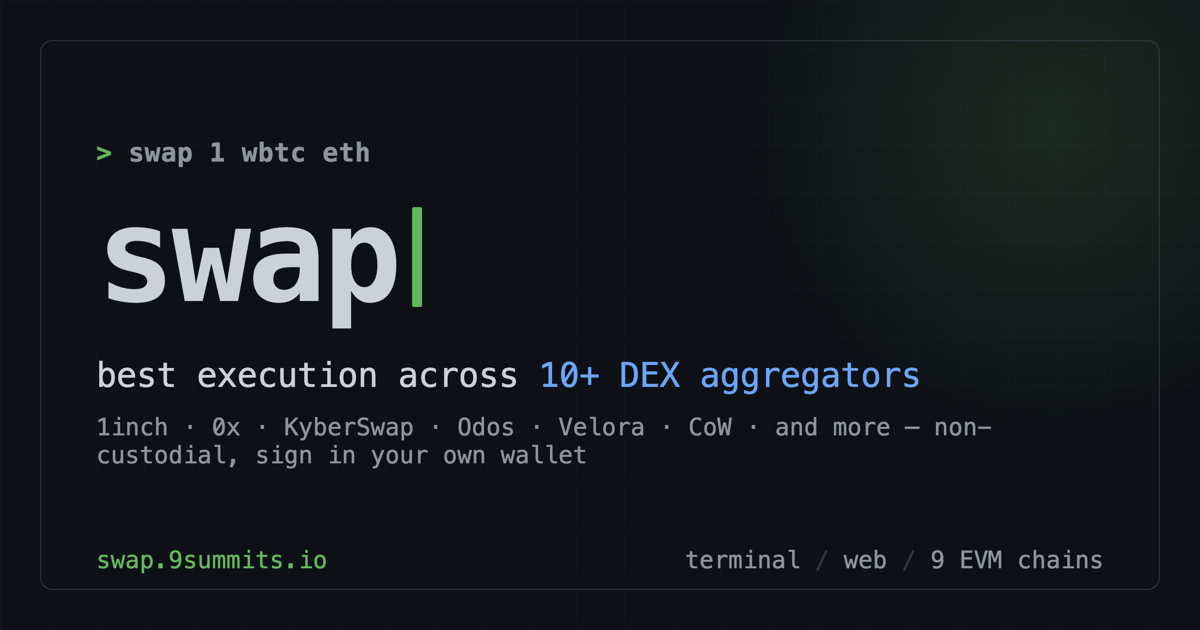
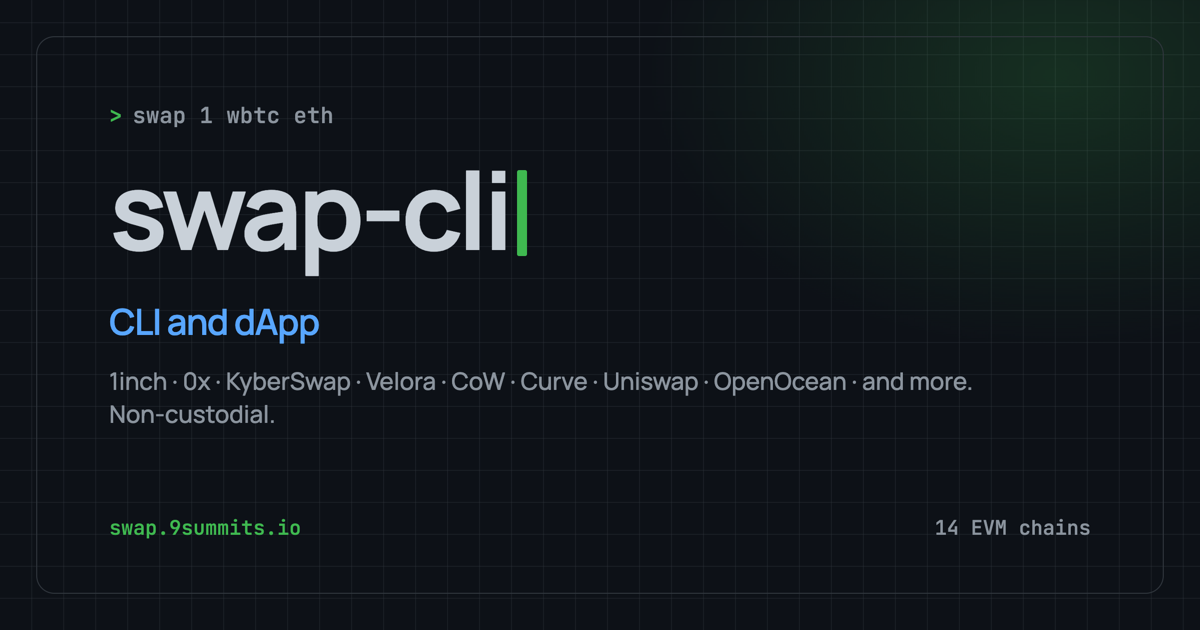
fix(web): refresh Open Graph card for swap-cli
Drop Odos and "sign in your own wallet". Title the product swap-cli,
call it a non-custodial CLI and dApp, and list 14 EVM chains.

diff --git a/scripts/og-card.html b/scripts/og-card.html
@@ -1,0 +1,165 @@
+<!doctype html>
+<html lang="en">
+  <head>
+    <meta charset="utf-8" />
+    <style>
+      @font-face {
+        font-family: "JetBrains Mono";
+        src: url("../web/src/ds/fonts/jetbrainsmono-700.woff2") format("woff2");
+        font-weight: 700;
+        font-style: normal;
+      }
+      @font-face {
+        font-family: "JetBrains Mono";
+        src: url("../web/src/ds/fonts/jetbrainsmono-500.woff2") format("woff2");
+        font-weight: 500;
+        font-style: normal;
+      }
+      @font-face {
+        font-family: "Manrope";
+        src: url("../web/src/ds/fonts/manrope-500.woff2") format("woff2");
+        font-weight: 500;
+        font-style: normal;
+      }
+      @font-face {
+        font-family: "Manrope";
+        src: url("../web/src/ds/fonts/manrope-600.woff2") format("woff2");
+        font-weight: 600;
+        font-style: normal;
+      }
+      @font-face {
+        font-family: "Manrope";
+        src: url("../web/src/ds/fonts/manrope-700.woff2") format("woff2");
+        font-weight: 700;
+        font-style: normal;
+      }
+      html,
+      body {
+        margin: 0;
+        width: 1200px;
+        height: 630px;
+        overflow: hidden;
+        background: #0d1117;
+      }
+      .frame {
+        box-sizing: border-box;
+        width: 1200px;
+        height: 630px;
+        padding: 36px;
+        background:
+          radial-gradient(ellipse 55% 70% at 88% 12%, rgba(63, 185, 80, 0.18) 0%, transparent 62%),
+          repeating-linear-gradient(
+            0deg,
+            transparent 0,
+            transparent 31px,
+            rgba(48, 54, 61, 0.35) 31px,
+            rgba(48, 54, 61, 0.35) 32px
+          ),
+          repeating-linear-gradient(
+            90deg,
+            transparent 0,
+            transparent 31px,
+            rgba(48, 54, 61, 0.35) 31px,
+            rgba(48, 54, 61, 0.35) 32px
+          ),
+          #0d1117;
+      }
+      .card {
+        box-sizing: border-box;
+        width: 100%;
+        height: 100%;
+        border: 1px solid #30363d;
+        border-radius: 18px;
+        padding: 64px 72px 52px;
+        display: flex;
+        flex-direction: column;
+      }
+      .prompt {
+        font-family: "JetBrains Mono", ui-monospace, monospace;
+        font-weight: 500;
+        font-size: 22px;
+        color: #8b949e;
+        letter-spacing: 0.01em;
+      }
+      .prompt .gt {
+        color: #3fb950;
+        margin-right: 10px;
+      }
+      .word {
+        margin: 28px 0 0;
+        display: flex;
+        align-items: center;
+        gap: 8px;
+        font-family: "Manrope", system-ui, sans-serif;
+        font-weight: 700;
+        font-size: 108px;
+        line-height: 0.95;
+        letter-spacing: -0.04em;
+        color: #c9d1d9;
+      }
+      .cursor {
+        width: 10px;
+        height: 86px;
+        background: #3fb950;
+        border-radius: 2px;
+        margin-top: 8px;
+      }
+      .lead {
+        margin: 36px 0 0;
+        font-family: "Manrope", system-ui, sans-serif;
+        font-weight: 600;
+        font-size: 36px;
+        letter-spacing: -0.03em;
+        color: #c9d1d9;
+      }
+      .lead em {
+        font-style: normal;
+        color: #58a6ff;
+      }
+      .venues {
+        margin: 18px 0 0;
+        max-width: 980px;
+        font-family: "Manrope", system-ui, sans-serif;
+        font-weight: 500;
+        font-size: 24px;
+        line-height: 1.4;
+        color: #8b949e;
+      }
+      .nowrap {
+        white-space: nowrap;
+      }
+      .foot {
+        margin-top: auto;
+        display: flex;
+        justify-content: space-between;
+        align-items: baseline;
+        font-family: "JetBrains Mono", ui-monospace, monospace;
+        font-weight: 500;
+        font-size: 20px;
+      }
+      .host {
+        color: #3fb950;
+      }
+      .meta {
+        color: #8b949e;
+      }
+    </style>
+  </head>
+  <body>
+    <div class="frame">
+      <div class="card">
+        <div class="prompt"><span class="gt">&gt;</span>swap 1 wbtc eth</div>
+        <div class="word">swap-cli<span class="cursor"></span></div>
+        <div class="lead"><em>CLI and dApp</em></div>
+        <div class="venues">
+          1inch · 0x · KyberSwap · Velora · CoW · Curve · Uniswap · OpenOcean · and more.
+          <span class="nowrap">Non-custodial.</span>
+        </div>
+        <div class="foot">
+          <span class="host">swap.9summits.io</span>
+          <span class="meta">14 EVM chains</span>
+        </div>
+      </div>
+    </div>
+  </body>
+</html>

diff --git a/web/index.html b/web/index.html
@@ -7,7 +7,7 @@
     <title>swap-cli</title>
     <meta
       name="description"
-      content="Compare quotes from 10+ DEX aggregators — 1inch, 0x, KyberSwap, Velora, CoW — across 9 EVM chains. Non-custodial, sign in your own wallet."
+      content="Non-custodial CLI and dApp. Compare quotes from KyberSwap, Velora, 0x, 1inch, Curve, Uniswap, OpenOcean, CoW and more across 14 EVM chains."
     />
     <link rel="canonical" href="https://swap.9summits.io/" />
     <!-- Agent / LLM discovery (see web/public/llms.txt) -->
@@ -19,11 +19,11 @@
       {
         "@context": "https://schema.org",
         "@type": "SoftwareApplication",
-        "name": "swap",
+        "name": "swap-cli",
         "url": "https://swap.9summits.io/",
         "applicationCategory": "FinanceApplication",
         "operatingSystem": "macOS, Linux, Web",
-        "description": "DEX meta-aggregator: races KyberSwap, Velora, 0x, 1inch, Curve, Uniswap, OpenOcean, CoW, UniswapX and more for the best swap quote on EVM chains, then builds the transaction or EIP-712 order for you to sign in your own wallet.",
+        "description": "Non-custodial CLI and dApp DEX meta-aggregator: races KyberSwap, Velora, 0x, 1inch, Curve, Uniswap, OpenOcean, CoW, UniswapX and more for the best swap quote on 14 EVM chains.",
         "license": "https://www.apache.org/licenses/LICENSE-2.0",
         "isAccessibleForFree": true,
         "offers": { "@type": "Offer", "price": "0", "priceCurrency": "USD" },
@@ -38,24 +38,25 @@
     <!-- Open Graph -->
     <meta property="og:type" content="website" />
     <meta property="og:url" content="https://swap.9summits.io/" />
-    <meta property="og:site_name" content="swap" />
-    <meta property="og:title" content="swap — DEX aggregator of aggregators" />
+    <meta property="og:site_name" content="swap-cli" />
+    <meta property="og:title" content="swap-cli — CLI and dApp DEX meta-aggregator" />
     <meta
       property="og:description"
-      content="Compare quotes from 10+ DEX aggregators — 1inch, 0x, KyberSwap, Velora, CoW — across 9 EVM chains. Non-custodial, sign in your own wallet."
+      content="Non-custodial CLI and dApp. Compare quotes from KyberSwap, Velora, 0x, 1inch, Curve, Uniswap, OpenOcean, CoW and more across 14 EVM chains."
     />
-    <meta property="og:image" content="https://swap.9summits.io/og.png" />
+    <meta property="og:image" content="https://swap.9summits.io/og.png?v=2" />
     <meta property="og:image:width" content="1200" />
     <meta property="og:image:height" content="630" />
+    <meta property="og:image:alt" content="swap-cli: non-custodial CLI and dApp DEX meta-aggregator" />
 
     <!-- Twitter -->
     <meta name="twitter:card" content="summary_large_image" />
-    <meta name="twitter:title" content="swap — DEX aggregator of aggregators" />
+    <meta name="twitter:title" content="swap-cli — CLI and dApp DEX meta-aggregator" />
     <meta
       name="twitter:description"
-      content="Compare quotes from 10+ DEX aggregators — 1inch, 0x, KyberSwap, Velora, CoW — across 9 EVM chains. Non-custodial, sign in your own wallet."
+      content="Non-custodial CLI and dApp. Compare quotes from KyberSwap, Velora, 0x, 1inch, Curve, Uniswap, OpenOcean, CoW and more across 14 EVM chains."
     />
-    <meta name="twitter:image" content="https://swap.9summits.io/og.png" />
+    <meta name="twitter:image" content="https://swap.9summits.io/og.png?v=2" />
 
     <!-- Favicon inlined as a data URI so vite-singlefile keeps it in
          the embedded HTML (public/ files would copy as separate

diff --git a/scripts/render-og.ts b/scripts/render-og.ts
@@ -1,0 +1,19 @@
+// Render scripts/og-card.html → web/public/og.png at 1200×630.
+// Usage: bun run scripts/render-og.ts
+import { chromium } from "@playwright/test";
+import { dirname, join } from "node:path";
+
+const root = join(import.meta.dir, "..");
+const html = join(root, "scripts/og-card.html");
+const out = join(root, "web/public/og.png");
+
+const browser = await chromium.launch({ channel: "chrome" });
+const page = await browser.newPage({
+  viewport: { width: 1200, height: 630 },
+  deviceScaleFactor: 2,
+});
+await page.goto(`file://${html}`, { waitUntil: "networkidle" });
+await page.evaluate(() => document.fonts.ready);
+await page.screenshot({ path: out, type: "png" });
+await browser.close();
+console.log("wrote", out);
